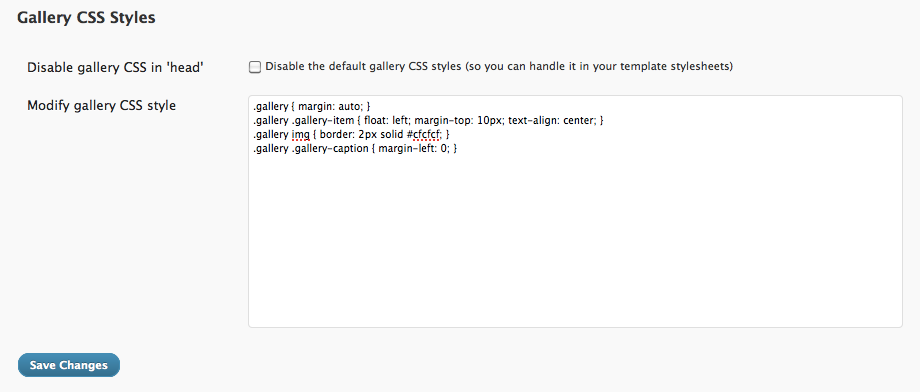
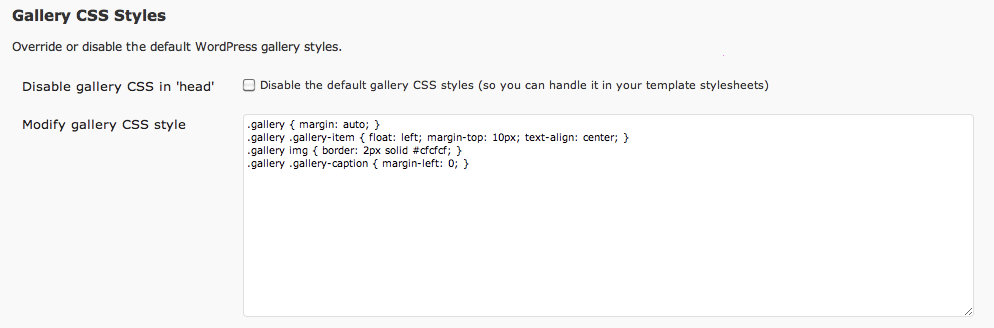
Version 2.1 Update (including WP 3.1 support)
git-svn-id: https://plugins.svn.wordpress.org/gallery-shortcode-style-to-head/trunk@333009 b8457f37-d9ea-0310-8a92-e5e31aec5664

diff --git a/gallery-shortcode-style-to-head.php b/gallery-shortcode-style-to-head.php
@@ -5,10 +5,10 @@ Plugin URI: http://www.scottbradford.us/software/gallery-shortcode-style-to-head
 Description: Moves the gallery shortcode styles to the head so it doesn't break XHTML validation; allows disabling or modifying the default gallery styles. 
 Author: Scott Bradford
 Author URI: http://www.scottbradford.us/
-Version: 2.0
+Version: 2.1
 
     Copyright (c) 2008 Matt Martz (http://sivel.net) (original author)
-    Copyright (c) 2009-2010 Scott Bradford (http://www.scottbradford.us) (current maintainer)
+    Copyright (c) 2009-2011 Scott Bradford (http://www.scottbradford.us) (current maintainer)
         
     Gallery Shortcode Style to Head is released under the GNU General Public License (GPL)
 	http://www.gnu.org/licenses/gpl-2.0.txt
@@ -27,11 +27,16 @@ $defStyle = ".gallery { margin: auto; }
 // initialize the settings variables
 add_action('admin_init', 'add_gssth_setting' );
 function add_gssth_setting() {
-	add_settings_section('gssth','Gallery CSS Styles','','media');
-	add_settings_field('gssth_disable_gallery_style','Disable gallery CSS in \'head\'','build_disable_gallery_styles','media','gssth');
-	add_settings_field('gssth_override_gallery_style','Modify gallery CSS style','build_override_gallery_styles','media','gssth');
 	register_setting( 'media', 'gssth_disable_gallery_style' );
 	register_setting( 'media', 'gssth_override_gallery_style' );
+	add_settings_section('gssth','Gallery CSS Styles','display_gssth_description','media');
+	add_settings_field('gssth_disable_gallery_style','Disable gallery CSS in \'head\'','build_disable_gallery_styles','media','gssth');
+	add_settings_field('gssth_override_gallery_style','Modify gallery CSS style','build_override_gallery_styles','media','gssth');
+}
+
+// display the GSSTH description
+function display_gssth_description() {
+	echo "<p>Override or disable the default WordPress gallery styles. To reset to default styles, un-check the disable option, clear out the style code (so it is completely empty), and save the changes.</p>";
 }
 
 // handle the disable/enable check box
@@ -124,8 +129,9 @@ function gallery_shortcode_style_out ( $attr ) {
 	$itemwidth = $columns > 0 ? floor(100/$columns) : 100;
 
 	$selector = "gallery-{$instance}";
+	$size_class = sanitize_html_class( $size );
 
-	$output = apply_filters('gallery_style', "<div id='$selector' class='gallery galleryid-{$id}'>");
+	$output = apply_filters('gallery_style', "<div id='$selector' class='gallery galleryid-{$id} gallery-columns-{$columns} gallery-size-{$size_class}'>");
 
 	$i = 0;
 	foreach ( $attachments as $id => $attachment ) {
@@ -138,28 +144,28 @@ function gallery_shortcode_style_out ( $attr ) {
 			</{$icontag}>";
 		if ( $captiontag && trim($attachment->post_excerpt) ) {
 			$output .= "
-				<{$captiontag} class='gallery-caption'>
+				<{$captiontag} class='wp-caption-text gallery-caption'>
 				" . wptexturize($attachment->post_excerpt) . "
 				</{$captiontag}>";
 		}
 		$output .= "</{$itemtag}>";
 		if ( $columns > 0 && ++$i % $columns == 0 )
-			$output .= '<br style="clear: both" />';
+			$output .= '<div style="clear: both"></div>';
 	}
 
 	$output .= "
-			<br style='clear: both;' />
+			<div style='clear: both;'></div>
 		</div>\n";
 
 	return $output;
 }
 
-// Default gallery style take from media.php with .gallery-item width removed
+// Default gallery style taken from media.php with .gallery-item width removed
 // .gallery-item width applied inline in gallery_shortcode_style_out().
 function gallery_style () { 
 	global $defStyle;
 	$output = "
-<!-- Gallery Shortcode Style to Head 2.0 -->
+<!-- Gallery Shortcode Style to Head 2.1 -->
 <style type='text/css'>
 ";
 	if (get_option('gssth_override_gallery_style')) { // if the style is saved, export the saved style
